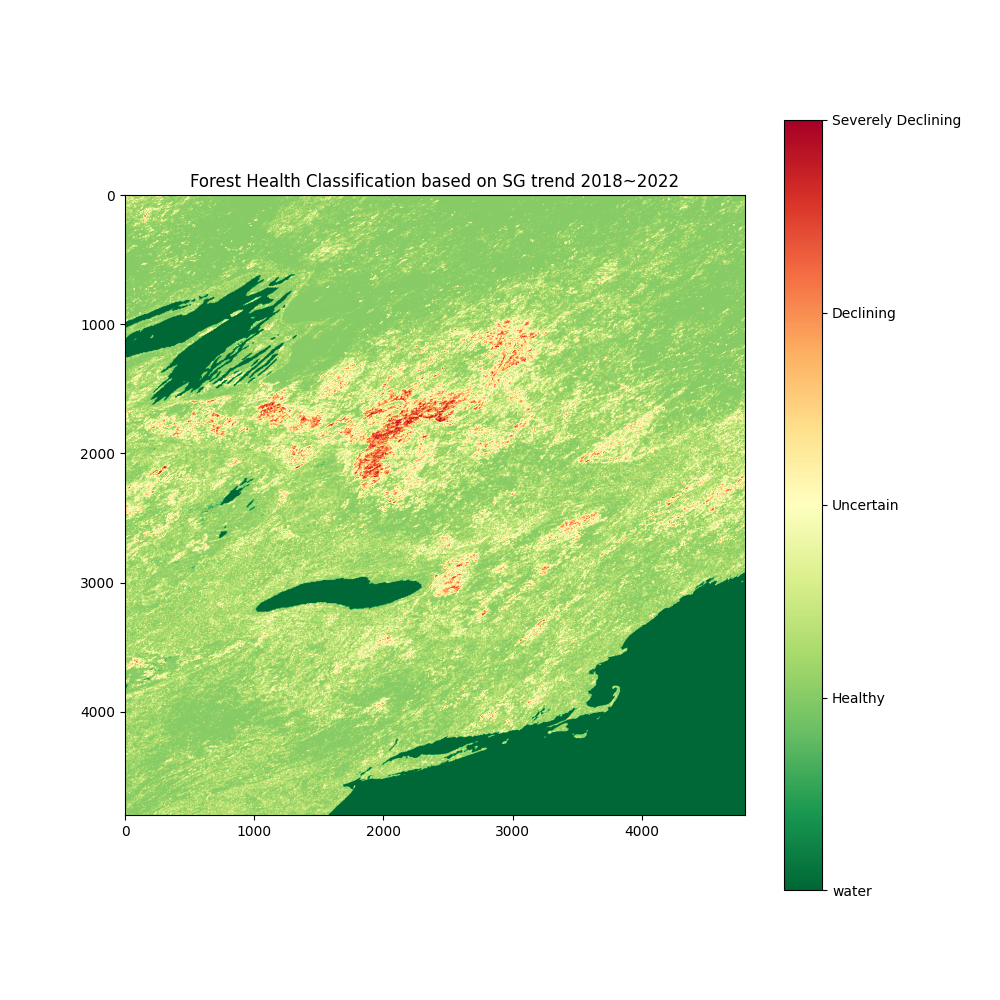
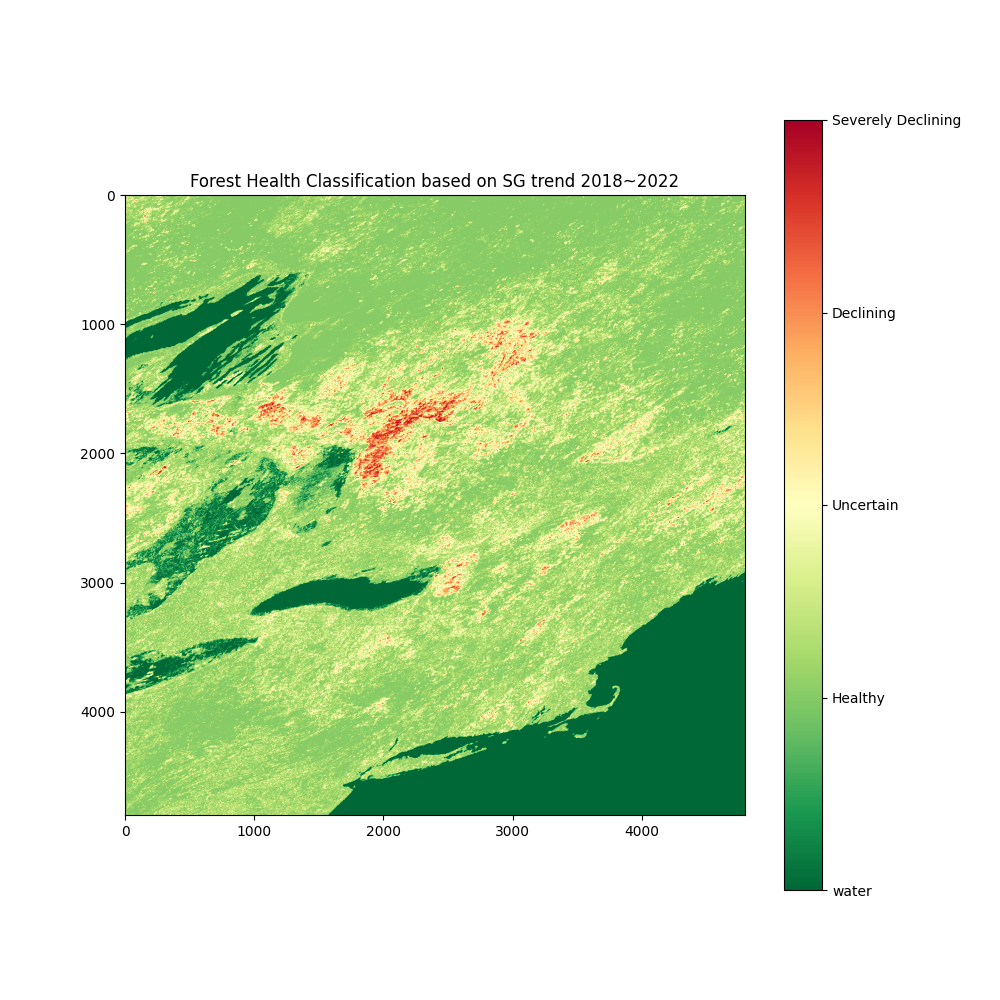
.

diff --git a/src/1.py b/src/1.py
@@ -41,13 +41,13 @@ class Foo:
 
     @staticmethod
     def __extract_date_from_filename(fn):
-        year = int(fn[9:13])
+        y = int(fn[9:13])
         doy = int(fn[13:16])  # day of year
-        date = datetime(year, 1, 1) + timedelta(doy - 1)
+        date = datetime(y, 1, 1) + timedelta(doy - 1)
         return date.strftime('%Y-%m-%d')
 
     def __foo(self):
-        plt.figure(figsize=(10, 10))
+        fig, ax = plt.figure(figsize=(10, 10))
         idx = 0
         for hdf_file in self.hdf_files:
             dt = self.__extract_date_from_filename(hdf_file)
@@ -89,7 +89,7 @@ class Foo:
             idx += 1
             hdf.end()
         self.NDVI = self.NDVI[:len(self.dates), :, :]
-
+        plt.close(fig)
         # fig, ax0 = plt.subplots(figsize=(12, 4))
         # for x1 in range(0, 4800, 500):
         #     for y1 in range(0, 4800, 500):
@@ -174,11 +174,11 @@ class Foo:
         self.std_errs = np.sqrt((1 - self.r_values ** 2) * np.var(self.sg_values, axis=0) / (n - 2))
         return
 
-    def classify_pixels(self, start_year, end_year):
+    def classify_pixels(self, end_idx, start_year, end_year):
         year_range = "%s~%s" % (start_year, end_year)
 
         # mark water region
-        p_val = np.where(self.sg_values == 0, self.p_val_nan, self.p_values)
+        p_val = np.where(self.sg_values[end_idx, :, :] == 0, self.p_val_nan, self.p_values)
 
         self.pixel_classes = np.zeros_like(p_val, dtype=int)
         self.pixel_classes[p_val <= 0.001] = 3
@@ -201,7 +201,7 @@ class Foo:
         fp = f"%s/yearly_SG_trend_%s.png" % (pth, year_range)
         plt.savefig(fp)
         print(f"plot saved at {fp}")
-        plt.clf()
+        plt.close(fig)
         return
 
     def plot_classification(self):
@@ -404,7 +404,7 @@ if __name__ == "__main__":
         else:
             print(year, "~", year + pe - 1)
             foo.linear_regress(i, i + pe - 1, year, year + pe - 1)
-            foo.classify_pixels(year, year + pe - 1)  # save sg clf training data
+            foo.classify_pixels(i + pe - 1, year, year + pe - 1)  # save sg clf training data
 
     # ana = SGAna(foo)
     # ana.analyze()
